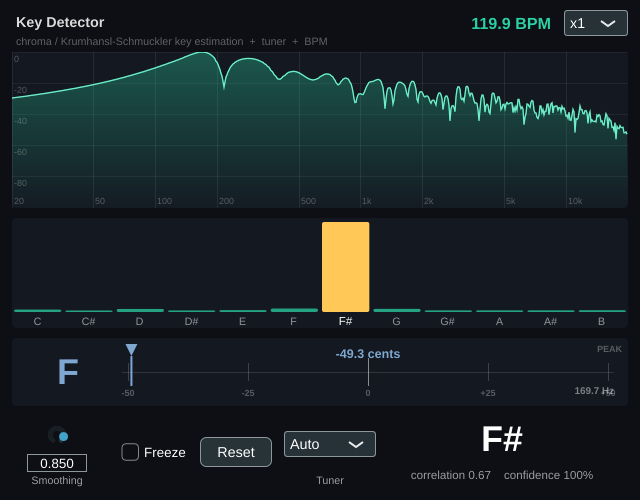
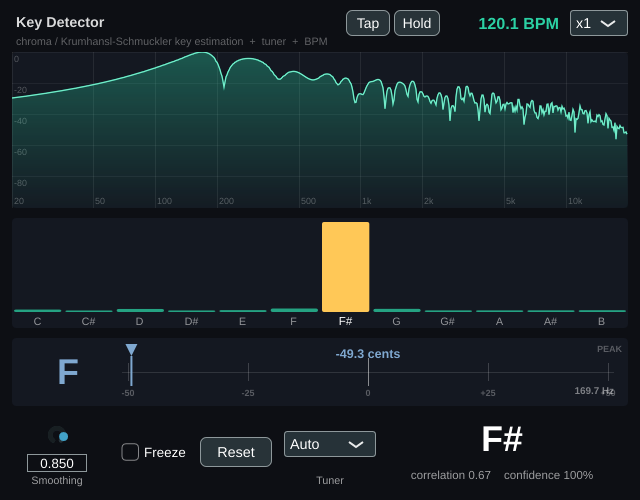
bpm: tap-tempo + hold; larger STFT kills steady-tone false positives
- Editor: Tap button (BPM from tap spacing, overrides ~5 s) and Hold toggle (freeze
  the read-out); colour-coded green/blue/amber (audio/tap/hold).
- TempoEstimator: spectral-flux STFT window 1024 -> 4096, so sustained tones barely
  produce flux (no spurious tempo) while onsets still spike; also boosted the
  no-beat (chord-change) confidence markedly. Crest-factor onset-activity gate.
- Tests still pass (clicks 90-160, no-beat 110, steady tone silent); render tool
  prints bpm/conf and the sustained-chord demo now shows -- BPM.

Changed region(s): [[0.5312, 0.0, 0.6875, 0.09], [0.7188, 0.0, 0.9375, 0.09]]

diff --git a/Source/PluginEditor.cpp b/Source/PluginEditor.cpp
@@ -35,6 +35,39 @@ KeyDetectorAudioProcessorEditor::KeyDetectorAudioProcessorEditor (KeyDetectorAud
     tempoMultAttachment = std::make_unique<ComboBoxAttachment> (
         processorRef.apvts, "tempoMult", tempoMultBox);
 
+    // Tap tempo: derive BPM from the spacing of button presses.
+    addAndMakeVisible (tapButton);
+    tapButton.onClick = [this]
+    {
+        const double now = juce::Time::getMillisecondCounterHiRes();
+        if (now - lastTapMs > 2000.0)   // long gap -> start a fresh tap session
+            tapTimes.clear();
+        lastTapMs = now;
+        tapTimes.push_back (now);
+        if (tapTimes.size() > 8)
+            tapTimes.erase (tapTimes.begin());
+
+        if (tapTimes.size() >= 2)
+        {
+            const double span = tapTimes.back() - tapTimes.front();
+            const double avg  = span / (double) (tapTimes.size() - 1);
+            if (avg > 0.0)
+                tappedBpm = juce::jlimit (30.0, 300.0, 60000.0 / avg);
+        }
+
+        // Tapping releases Hold and takes over the read-out.
+        holdButton.setToggleState (false, juce::dontSendNotification);
+    };
+
+    // Hold: freeze the BPM read-out at its current value.
+    holdButton.setClickingTogglesState (true);
+    addAndMakeVisible (holdButton);
+    holdButton.onClick = [this]
+    {
+        if (holdButton.getToggleState())
+            heldBpmText = lastLiveBpmText; // capture whatever is shown right now
+    };
+
     // --- Controls ---------------------------------------------------------------
     smoothingSlider.setSliderStyle (juce::Slider::RotaryHorizontalVerticalDrag);
     smoothingSlider.setTextBoxStyle (juce::Slider::TextBoxBelow, false, 60, 18);
@@ -95,12 +128,16 @@ void KeyDetectorAudioProcessorEditor::resized()
 {
     auto area = getLocalBounds().reduced (12);
 
-    // Header row (top-right): BPM read-out + its ×½/×1/×2 octave selector.
+    // Header row (top-right): [Tap][Hold]  BPM  [×½/×1/×2]
     {
         auto header = juce::Rectangle<int> (area.getX(), 10, area.getWidth(), 26);
-        tempoMultBox.setBounds (header.removeFromRight (64));
+        tempoMultBox.setBounds (header.removeFromRight (58));
+        header.removeFromRight (6);
+        bpmLabel.setBounds (header.removeFromRight (116));
         header.removeFromRight (8);
-        bpmLabel.setBounds (header.removeFromRight (140));
+        holdButton.setBounds (header.removeFromRight (46));
+        header.removeFromRight (4);
+        tapButton.setBounds (header.removeFromRight (44));
     }
 
     area.removeFromTop (40); // header
@@ -153,11 +190,34 @@ void KeyDetectorAudioProcessorEditor::timerCallback()
     chroma.setTonic (est.pitchClass, est.isMinor);
     chroma.repaint();
 
-    // Tempo estimated from the audio (shown only when a clear pulse is detected).
-    const double bpm = processorRef.getBpm();
-    bpmLabel.setText ((bpm > 0.0 && processorRef.getBpmConfidence() >= 0.25f)
-                          ? juce::String (bpm, 1) + " BPM" : "-- BPM",
-                      juce::dontSendNotification);
+    // Tempo read-out: Hold (frozen) > Tap (recent taps) > audio estimate.
+    // Source is shown by colour: green = audio, blue = tap, amber = hold.
+    const double now = juce::Time::getMillisecondCounterHiRes();
+    const bool   tapValid = tappedBpm > 0.0 && (now - lastTapMs) < 5000.0;
+
+    juce::Colour bpmColour = juce::Colour (0xff2bd1a4);
+    if (tapValid)
+    {
+        lastLiveBpmText = juce::String (tappedBpm, 1) + " BPM";
+        bpmColour = juce::Colour (0xff6ea8ff);
+    }
+    else
+    {
+        const double bpm = processorRef.getBpm();
+        lastLiveBpmText = (bpm > 0.0 && processorRef.getBpmConfidence() >= 0.25f)
+                              ? juce::String (bpm, 1) + " BPM" : "-- BPM";
+    }
+
+    if (holdButton.getToggleState())
+    {
+        bpmLabel.setText (heldBpmText, juce::dontSendNotification);
+        bpmColour = juce::Colour (0xffffc857);
+    }
+    else
+    {
+        bpmLabel.setText (lastLiveBpmText, juce::dontSendNotification);
+    }
+    bpmLabel.setColour (juce::Label::textColourId, bpmColour);
 
     // Tuner (falls back to the loudest spectral peak for percussion/inharmonic input).
     tuner.setReading (processorRef.getTunerFrequency(),

diff --git a/Source/TempoEstimator.cpp b/Source/TempoEstimator.cpp
@@ -50,7 +50,7 @@ namespace
 void TempoEstimator::prepare (double newSampleRate)
 {
     sampleRate = newSampleRate;
-    fftSize    = 1024;
+    fftSize    = 4096;   // finer bins -> steady tones leak far less (fewer false onsets)
     hop        = 512;
     onsetRate  = sampleRate / (double) hop;
 
@@ -107,7 +107,7 @@ void TempoEstimator::processHop()
     }
     fft (re, im);
 
-    // Spectral flux = sum of positive magnitude changes.
+    // Spectral flux = sum of positive magnitude changes (onset strength).
     float flux = 0.0f;
     for (int k = 1; k < fluxMaxBin; ++k)
     {
@@ -144,14 +144,26 @@ void TempoEstimator::computeTempo()
 
     const int n = filled;
 
-    double mean = 0.0;
+    double mean = 0.0, maxRaw = 0.0;
     for (int i = 0; i < n; ++i)
     {
         const float v = odf[(size_t) ((writePos - n + i + odfSize) % odfSize)];
         scratch[(size_t) i] = v;
         mean += v;
+        if (v > maxRaw) maxRaw = v;
     }
     mean /= n;
+
+    // Onset-activity (crest) gate: real rhythm / note-changes give a spiky onset
+    // envelope (peaks far above the mean); steady/sustained material gives a flat
+    // one.  Rejecting low-crest frames avoids reporting a tempo when there is no
+    // real onset activity.
+    const double crest = maxRaw / (mean + 1.0e-12);
+    if (crest < 4.0)
+    {
+        confidence = 0.0f;
+        return;
+    }
 
     double var = 0.0;
     for (int i = 0; i < n; ++i)

diff --git a/Source/PluginEditor.h b/Source/PluginEditor.h
@@ -40,6 +40,8 @@ private:
     juce::ComboBox     tunerModeBox;
     juce::Label        tunerModeLabel { {}, "Tuner" };
     juce::ComboBox     tempoMultBox;   // BPM ×½ / ×1 / ×2
+    juce::TextButton   tapButton  { "Tap" };
+    juce::TextButton   holdButton { "Hold" };
 
     using SliderAttachment = juce::AudioProcessorValueTreeState::SliderAttachment;
     using ButtonAttachment = juce::AudioProcessorValueTreeState::ButtonAttachment;
@@ -50,6 +52,13 @@ private:
     std::unique_ptr<ComboBoxAttachment> tempoMultAttachment;
 
     std::vector<float> spectrumScratch; // reused each timer tick
+
+    // Tap-tempo + BPM hold state (UI-side).
+    std::vector<double> tapTimes;        // recent tap timestamps (ms)
+    double  lastTapMs   = 0.0;
+    double  tappedBpm   = 0.0;
+    juce::String lastLiveBpmText { "-- BPM" };
+    juce::String heldBpmText     { "-- BPM" };
 
     JUCE_DECLARE_NON_COPYABLE_WITH_LEAK_DETECTOR (KeyDetectorAudioProcessorEditor)
 };

diff --git a/Source/TempoEstimator.h b/Source/TempoEstimator.h
@@ -48,9 +48,9 @@ private:
     double sampleRate = 44100.0;
 
     // Spectral-flux front end.
-    int    fftSize   = 1024;
+    int    fftSize   = 4096;
     int    hop       = 512;
-    double onsetRate = 86.13; // ODF samples per second (sampleRate / hop)
+    double onsetRate = 93.75; // ODF samples per second (sampleRate / hop)
 
     std::vector<float> inRing;      // last fftSize input samples (circular)
     int    inPos = 0;

diff --git a/README.md b/README.md
@@ -115,13 +115,20 @@ KeyDetector/
 ## BPM read-out
 
 The header shows the tempo **estimated from the audio on the channel** (not the
-host clock). The onset-detection function is **spectral flux** (the sum of positive
-changes in the magnitude spectrum), so it finds a tempo from drum hits *and* from
-note/chord changes at constant loudness — i.e. it can read a BPM even with no
-percussive "beat". The onset envelope is auto-correlated over a musical lag range,
-with a gentle tempo preference (~120 BPM). Because half/double-time is inherently
-ambiguous, a **×½ / ×1 / ×2** selector next to the read-out lets you lock the
-octave. It shows `-- BPM` until a clear pulse is present. See
+host clock). The onset-detection function is **spectral flux** from a 4096-point
+STFT (so steady tones barely register, while note/chord changes and drum hits
+produce clear onsets — it can therefore read a BPM even with no percussive
+"beat"). The onset envelope is mean-removed and auto-correlated over a musical lag
+range, gated by an onset-activity (crest) test so sustained material reads
+`-- BPM` instead of a spurious tempo.
+
+Controls next to the read-out:
+- **Tap** – tap in time; the BPM is derived from your tap spacing (overrides the
+  estimate for ~5 s; blue text).
+- **Hold** – freeze the current read-out at its value (amber text).
+- **×½ / ×1 / ×2** – lock the tempo octave if a track reads half/double-time.
+
+Colour code: green = estimated from audio, blue = tapped, amber = held. See
 `Source/TempoEstimator.*` and `tests/TempoEstimatorTest.cpp`.
 
 ## Building
